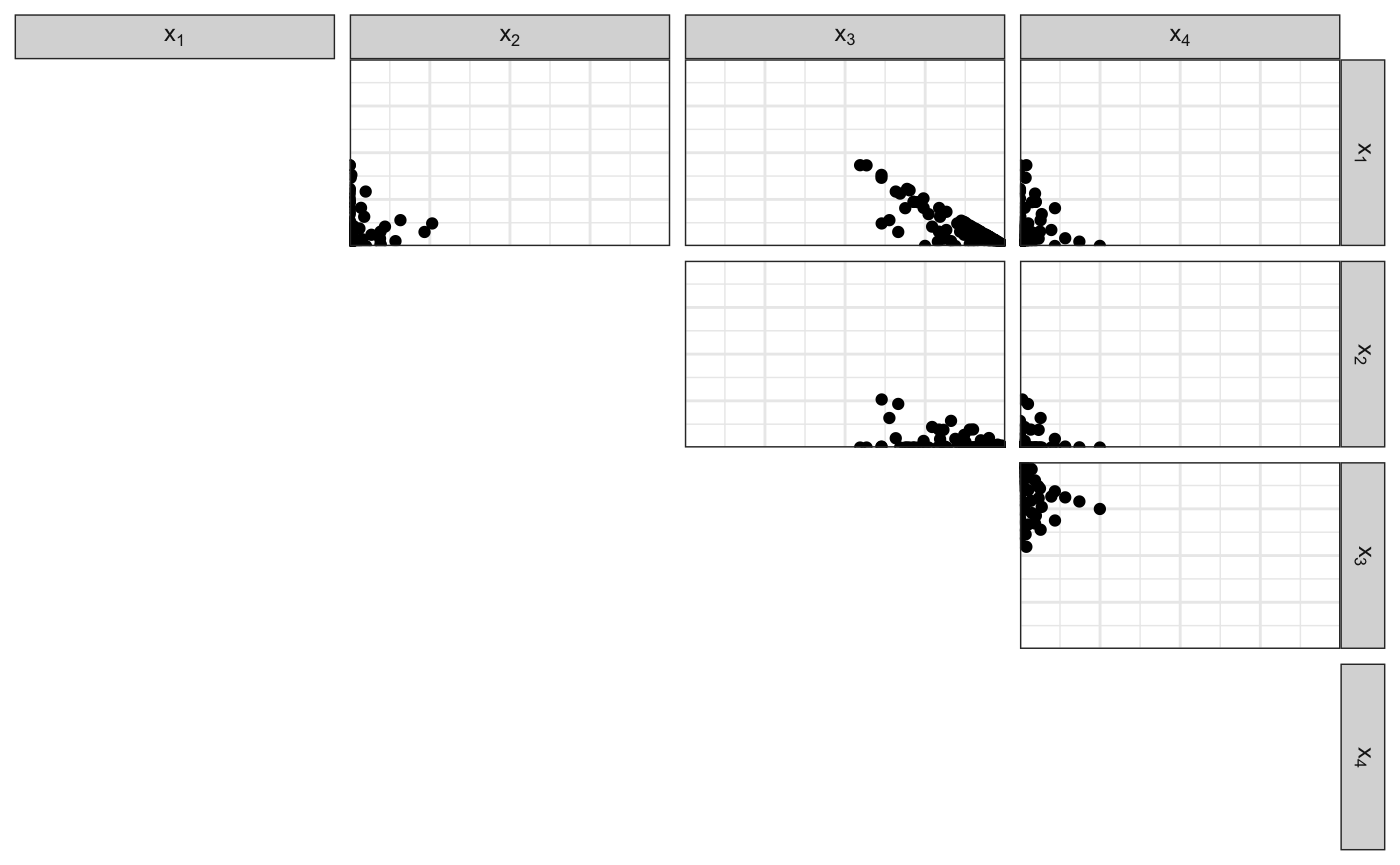
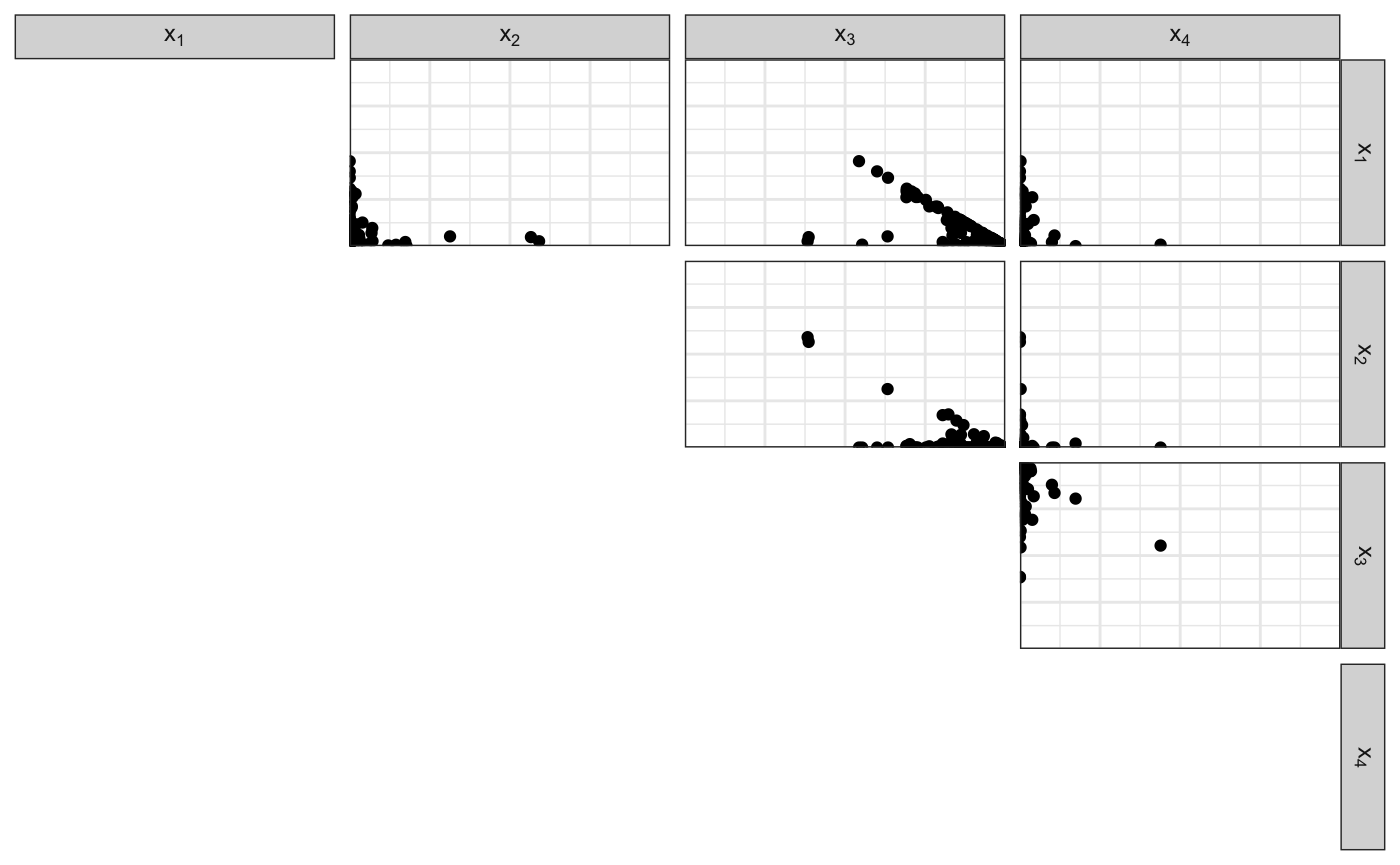
Built site for rsamplestudy: 0.3.2@eef4b8c

diff --git a/articles/dirichlet-distribution.html b/articles/dirichlet-distribution.html
@@ -153,14 +153,14 @@ In other words, <span class="math inline">\(\boldsymbol{X} \in \text{Simplex}{(p
 <div class="sourceCode" id="cb2"><html><body><pre class="r"><span class="no">df_diri</span> <span class="kw">&lt;-</span> <span class="fu"><a href="../reference/fun_rdirichlet.html">fun_rdirichlet</a></span>(<span class="no">n</span>, <span class="no">alpha</span>)
 <span class="fu"><a href="https://rdrr.io/r/utils/head.html">head</a></span>(<span class="no">df_diri</span>)
 <span class="co">#&gt; # A tibble: 6 x 4</span>
-<span class="co">#&gt;    `x[1]`   `x[2]` `x[3]`   `x[4]`</span>
-<span class="co">#&gt;     &lt;dbl&gt;    &lt;dbl&gt;  &lt;dbl&gt;    &lt;dbl&gt;</span>
-<span class="co">#&gt; 1 0.0885  6.61e- 5  0.911 2.45e- 5</span>
-<span class="co">#&gt; 2 0.00151 1.04e-20  0.998 1.51e-19</span>
-<span class="co">#&gt; 3 0.366   3.04e- 3  0.614 1.77e- 2</span>
-<span class="co">#&gt; 4 0.255   6.62e- 5  0.745 2.10e- 6</span>
-<span class="co">#&gt; 5 0.00277 5.45e- 8  0.997 6.28e- 8</span>
-<span class="co">#&gt; 6 0.00466 6.33e- 3  0.989 9.85e- 5</span></pre></body></html></div>
+<span class="co">#&gt;   `x[1]`   `x[2]` `x[3]`      `x[4]`</span>
+<span class="co">#&gt;    &lt;dbl&gt;    &lt;dbl&gt;  &lt;dbl&gt;       &lt;dbl&gt;</span>
+<span class="co">#&gt; 1 0.117  2.04e- 2  0.861 0.00215    </span>
+<span class="co">#&gt; 2 0.0213 7.78e- 7  0.879 0.0998     </span>
+<span class="co">#&gt; 3 0.0365 3.79e-15  0.963 0.0000183  </span>
+<span class="co">#&gt; 4 0.109  3.76e- 4  0.890 0.000165   </span>
+<span class="co">#&gt; 5 0.124  2.22e- 4  0.876 0.000000474</span>
+<span class="co">#&gt; 6 0.0583 3.39e- 9  0.926 0.0158</span></pre></body></html></div>
 <pre><code>#&gt; Loading required namespace: ggplot2
 #&gt; Loading required namespace: GGally
 #&gt; Registered S3 method overwritten by 'GGally':
@@ -178,14 +178,14 @@ In other words, <span class="math inline">\(\boldsymbol{X} \in \text{Simplex}{(p
 <div class="sourceCode" id="cb5"><html><body><pre class="r"><span class="no">df_diri</span> <span class="kw">&lt;-</span> <span class="fu"><a href="../reference/fun_rdirichlet.html">fun_rdirichlet</a></span>(<span class="no">n</span>, <span class="no">alpha</span>)
 <span class="fu"><a href="https://rdrr.io/r/utils/head.html">head</a></span>(<span class="no">df_diri</span>)
 <span class="co">#&gt; # A tibble: 6 x 4</span>
-<span class="co">#&gt;   `x[1]` `x[2]` `x[3]` `x[4]`</span>
-<span class="co">#&gt;    &lt;dbl&gt;  &lt;dbl&gt;  &lt;dbl&gt;  &lt;dbl&gt;</span>
-<span class="co">#&gt; 1 0.527  0.325   0.109 0.0386</span>
-<span class="co">#&gt; 2 0.0940 0.171   0.404 0.331 </span>
-<span class="co">#&gt; 3 0.221  0.0926  0.339 0.348 </span>
-<span class="co">#&gt; 4 0.167  0.0535  0.594 0.186 </span>
-<span class="co">#&gt; 5 0.500  0.217   0.170 0.113 </span>
-<span class="co">#&gt; 6 0.0465 0.328   0.573 0.0524</span></pre></body></html></div>
+<span class="co">#&gt;   `x[1]` `x[2]`  `x[3]`  `x[4]`</span>
+<span class="co">#&gt;    &lt;dbl&gt;  &lt;dbl&gt;   &lt;dbl&gt;   &lt;dbl&gt;</span>
+<span class="co">#&gt; 1 0.232  0.0749 0.00782 0.686  </span>
+<span class="co">#&gt; 2 0.0754 0.490  0.0305  0.404  </span>
+<span class="co">#&gt; 3 0.241  0.206  0.162   0.391  </span>
+<span class="co">#&gt; 4 0.126  0.343  0.164   0.367  </span>
+<span class="co">#&gt; 5 0.233  0.529  0.232   0.00714</span>
+<span class="co">#&gt; 6 0.539  0.133  0.162   0.166</span></pre></body></html></div>
 <div class="sourceCode" id="cb6"><html><body><pre class="r"><span class="fu">scatter_matrix_simplex</span>(<span class="no">df_diri</span>)</pre></body></html></div>
 <p><img src="dirichlet-distribution_files/figure-html/unnamed-chunk-5-1.png" width="700"></p>
 </div>
@@ -202,12 +202,12 @@ In other words, <span class="math inline">\(\boldsymbol{X} \in \text{Simplex}{(p
 <span class="co">#&gt; # A tibble: 6 x 4</span>
 <span class="co">#&gt;   `x[1]` `x[2]` `x[3]` `x[4]`</span>
 <span class="co">#&gt;    &lt;dbl&gt;  &lt;dbl&gt;  &lt;dbl&gt;  &lt;dbl&gt;</span>
-<span class="co">#&gt; 1  0.267  0.263  0.301  0.168</span>
-<span class="co">#&gt; 2  0.287  0.226  0.269  0.218</span>
-<span class="co">#&gt; 3  0.288  0.234  0.256  0.222</span>
-<span class="co">#&gt; 4  0.195  0.226  0.274  0.306</span>
-<span class="co">#&gt; 5  0.326  0.182  0.270  0.222</span>
-<span class="co">#&gt; 6  0.263  0.184  0.326  0.228</span></pre></body></html></div>
+<span class="co">#&gt; 1  0.268  0.250  0.228  0.254</span>
+<span class="co">#&gt; 2  0.223  0.235  0.304  0.237</span>
+<span class="co">#&gt; 3  0.331  0.244  0.152  0.272</span>
+<span class="co">#&gt; 4  0.302  0.277  0.211  0.210</span>
+<span class="co">#&gt; 5  0.267  0.172  0.330  0.230</span>
+<span class="co">#&gt; 6  0.310  0.237  0.203  0.250</span></pre></body></html></div>
 <div class="sourceCode" id="cb9"><html><body><pre class="r"><span class="fu">scatter_matrix_simplex</span>(<span class="no">df_diri</span>)</pre></body></html></div>
 <p><img src="dirichlet-distribution_files/figure-html/unnamed-chunk-8-1.png" width="700"></p>
 </div>
@@ -222,15 +222,26 @@ In other words, <span class="math inline">\(\boldsymbol{X} \in \text{Simplex}{(p
 <div class="sourceCode" id="cb11"><html><body><pre class="r"><span class="no">df_diri</span> <span class="kw">&lt;-</span> <span class="fu"><a href="../reference/fun_rdirichlet.html">fun_rdirichlet</a></span>(<span class="no">n</span>, <span class="no">alpha</span>)
 <span class="fu"><a href="https://rdrr.io/r/utils/head.html">head</a></span>(<span class="no">df_diri</span>)
 <span class="co">#&gt; # A tibble: 6 x 4</span>
-<span class="co">#&gt;      `x[1]`    `x[2]`    `x[3]`    `x[4]`</span>
-<span class="co">#&gt;       &lt;dbl&gt;     &lt;dbl&gt;     &lt;dbl&gt;     &lt;dbl&gt;</span>
-<span class="co">#&gt; 1 2.91e-243 1.00e+  0 2.06e- 32 3.69e-240</span>
-<span class="co">#&gt; 2 2.32e-174 6.96e- 91 1.00e+  0 2.10e-118</span>
-<span class="co">#&gt; 3 9.63e-106 1.00e+  0 4.89e-196 3.57e- 34</span>
-<span class="co">#&gt; 4 2.67e- 18 2.31e-263 1.00e+  0 9.50e-143</span>
-<span class="co">#&gt; 5 8.46e- 14 1.00e+  0 6.36e-247 1.64e-281</span>
-<span class="co">#&gt; 6 0.        1.00e+  0 0.        8.31e-105</span></pre></body></html></div>
-<div class="sourceCode" id="cb12"><html><body><pre class="r"><span class="fu">scatter_matrix_simplex</span>(<span class="no">df_diri</span>)</pre></body></html></div>
+<span class="co">#&gt;      `x[1]`    `x[2]`   `x[3]`    `x[4]`</span>
+<span class="co">#&gt;       &lt;dbl&gt;     &lt;dbl&gt;    &lt;dbl&gt;     &lt;dbl&gt;</span>
+<span class="co">#&gt; 1 9.67e-  1 0.        3.64e-12 3.30e-  2</span>
+<span class="co">#&gt; 2 1.67e- 15 1.00e+  0 1.54e-83 4.35e- 96</span>
+<span class="co">#&gt; 3 0.        6.71e-  6 8.21e-86 1.00e+  0</span>
+<span class="co">#&gt; 4 2.72e-220 5.72e-105 1.00e+ 0 1.82e-124</span>
+<span class="co">#&gt; 5 8.72e-193 1.00e+  0 2.71e-12 3.89e- 81</span>
+<span class="co">#&gt; 6 0.        1.00e+  0 6.52e-76 0.</span></pre></body></html></div>
+<div class="sourceCode" id="cb12"><html><body><pre class="r"><span class="fu">scatter_matrix_simplex</span>(<span class="no">df_diri</span>)
+<span class="co">#&gt; Warning: Removed 1 rows containing missing values (geom_point).</span>
+
+<span class="co">#&gt; Warning: Removed 1 rows containing missing values (geom_point).</span>
+
+<span class="co">#&gt; Warning: Removed 1 rows containing missing values (geom_point).</span>
+
+<span class="co">#&gt; Warning: Removed 1 rows containing missing values (geom_point).</span>
+
+<span class="co">#&gt; Warning: Removed 1 rows containing missing values (geom_point).</span>
+
+<span class="co">#&gt; Warning: Removed 1 rows containing missing values (geom_point).</span></pre></body></html></div>
 <p><img src="dirichlet-distribution_files/figure-html/unnamed-chunk-11-1.png" width="700"></p>
 </div>
 </div>

diff --git a/articles/dirichletdirichlet-study.html b/articles/dirichletdirichlet-study.html
@@ -145,24 +145,24 @@ This vignette describes the Dirichlet-Dirichlet model.</p>
 <p>Notice that the hyperparameter is sampled, too (but it can be fixed).</p>
 <div class="sourceCode" id="cb2"><html><body><pre class="r"><span class="fu"><a href="https://rdrr.io/r/utils/head.html">head</a></span>(<span class="no">list_pop</span>$<span class="no">df_pop</span>)
 <span class="co">#&gt; # A tibble: 6 x 5</span>
-<span class="co">#&gt;   source   `x[1]` `x[2]` `x[3]`   `x[4]`</span>
-<span class="co">#&gt;    &lt;int&gt;    &lt;dbl&gt;  &lt;dbl&gt;  &lt;dbl&gt;    &lt;dbl&gt;</span>
-<span class="co">#&gt; 1      1 0.579         0 0.413  0.00773 </span>
-<span class="co">#&gt; 2      1 0.777         0 0.220  0.00280 </span>
-<span class="co">#&gt; 3      1 0.000662      0 0.992  0.00771 </span>
-<span class="co">#&gt; 4      1 0.784         0 0.216  0.000114</span>
-<span class="co">#&gt; 5      1 0.0207        0 0.951  0.0284  </span>
-<span class="co">#&gt; 6      1 0.356         0 0.0253 0.619</span>
+<span class="co">#&gt;   source `x[1]` `x[2]` `x[3]`   `x[4]`</span>
+<span class="co">#&gt;    &lt;int&gt;  &lt;dbl&gt;  &lt;dbl&gt;  &lt;dbl&gt;    &lt;dbl&gt;</span>
+<span class="co">#&gt; 1      1      0  0.876  0.111 1.27e- 2</span>
+<span class="co">#&gt; 2      1      0  0.451  0.332 2.17e- 1</span>
+<span class="co">#&gt; 3      1      0  0.752  0.248 4.16e-10</span>
+<span class="co">#&gt; 4      1      0  0.861  0.139 1.89e- 6</span>
+<span class="co">#&gt; 5      1      0  0.771  0.228 1.08e- 3</span>
+<span class="co">#&gt; 6      1      0  0.454  0.546 1.74e- 5</span>
 <span class="fu"><a href="https://rdrr.io/r/utils/head.html">head</a></span>(<span class="no">list_pop</span>$<span class="no">df_sources</span>)
 <span class="co">#&gt; # A tibble: 6 x 5</span>
 <span class="co">#&gt;   source `theta[1]` `theta[2]` `theta[3]` `theta[4]`</span>
 <span class="co">#&gt;    &lt;int&gt;      &lt;dbl&gt;      &lt;dbl&gt;      &lt;dbl&gt;      &lt;dbl&gt;</span>
-<span class="co">#&gt; 1      1   0.340      8.66e-41 0.392           0.268</span>
-<span class="co">#&gt; 2      2   0.508      4.76e-32 0.106           0.385</span>
-<span class="co">#&gt; 3      3   0.0187     5.01e- 1 0.293           0.188</span>
-<span class="co">#&gt; 4      4   0.000576   1.41e-13 0.164           0.835</span>
-<span class="co">#&gt; 5      5   0.000625   4.62e-16 0.00000671      0.999</span>
-<span class="co">#&gt; 6      6   0.00141    7.98e- 9 0.0159          0.983</span></pre></body></html></div>
+<span class="co">#&gt; 1      1   4.84e-11    0.462       0.415    0.124   </span>
+<span class="co">#&gt; 2      2   9.38e- 3    0.890       0.101    0.000149</span>
+<span class="co">#&gt; 3      3   3.77e-21    0.807       0.181    0.0115  </span>
+<span class="co">#&gt; 4      4   2.46e- 7    0.845       0.0121   0.143   </span>
+<span class="co">#&gt; 5      5   8.48e- 9    0.00515     0.994    0.000965</span>
+<span class="co">#&gt; 6      6   2.04e- 5    0.0788      0.907    0.0144</span></pre></body></html></div>
 </div>
 <div id="hyperparameters" class="section level2">
 <h2 class="hasAnchor">
@@ -189,33 +189,33 @@ This is generically done using <code>make_dataset_splits</code>:</p>
 <span class="co">#&gt; [5] "df_questioned"  "df_background"</span></pre></body></html></div>
 <div class="sourceCode" id="cb5"><html><body><pre class="r"><span class="fu"><a href="https://rdrr.io/r/utils/head.html">head</a></span>(<span class="no">list_samples</span>$<span class="no">df_reference</span>)
 <span class="co">#&gt; # A tibble: 6 x 5</span>
-<span class="co">#&gt;   source  `x[1]` `x[2]`  `x[3]`    `x[4]`</span>
-<span class="co">#&gt;    &lt;int&gt;   &lt;dbl&gt;  &lt;dbl&gt;   &lt;dbl&gt;     &lt;dbl&gt;</span>
-<span class="co">#&gt; 1     18 0.0109       0 0.989   2.85e- 69</span>
-<span class="co">#&gt; 2     18 0.586        0 0.414   7.06e- 88</span>
-<span class="co">#&gt; 3     18 0.106        0 0.894   6.36e- 50</span>
-<span class="co">#&gt; 4     18 0.00494      0 0.995   7.01e- 62</span>
-<span class="co">#&gt; 5     18 0.993        0 0.00741 3.17e- 41</span>
-<span class="co">#&gt; 6     18 0.846        0 0.154   1.70e-164</span>
+<span class="co">#&gt;   source    `x[1]` `x[2]`   `x[3]` `x[4]`</span>
+<span class="co">#&gt;    &lt;int&gt;     &lt;dbl&gt;  &lt;dbl&gt;    &lt;dbl&gt;  &lt;dbl&gt;</span>
+<span class="co">#&gt; 1      8 0.         0.263 7.37e- 1      0</span>
+<span class="co">#&gt; 2      8 0.         1.00  3.32e- 6      0</span>
+<span class="co">#&gt; 3      8 0.         0.996 4.12e- 3      0</span>
+<span class="co">#&gt; 4      8 0.         0.999 6.57e- 4      0</span>
+<span class="co">#&gt; 5      8 0.         1.00  9.57e-10      0</span>
+<span class="co">#&gt; 6      8 9.22e-181  1.00  4.85e- 5      0</span>
 <span class="fu"><a href="https://rdrr.io/r/utils/head.html">head</a></span>(<span class="no">list_samples</span>$<span class="no">df_questioned</span>)
 <span class="co">#&gt; # A tibble: 5 x 5</span>
-<span class="co">#&gt;   source       `x[1]`   `x[2]`    `x[3]`  `x[4]`</span>
-<span class="co">#&gt;    &lt;int&gt;        &lt;dbl&gt;    &lt;dbl&gt;     &lt;dbl&gt;   &lt;dbl&gt;</span>
-<span class="co">#&gt; 1      2 0.0161       0.       9.80e-  1 0.00353</span>
-<span class="co">#&gt; 2      3 0.0000000358 8.68e- 1 7.61e-  2 0.0555 </span>
-<span class="co">#&gt; 3     12 0            2.77e- 6 1.29e- 35 1.00   </span>
-<span class="co">#&gt; 4     14 0            5.61e-82 2.96e-  8 1.00   </span>
-<span class="co">#&gt; 5     20 0.715        0.       4.46e-185 0.285</span>
+<span class="co">#&gt;   source   `x[1]`     `x[2]`      `x[3]`   `x[4]`</span>
+<span class="co">#&gt;    &lt;int&gt;    &lt;dbl&gt;      &lt;dbl&gt;       &lt;dbl&gt;    &lt;dbl&gt;</span>
+<span class="co">#&gt; 1      1 0.       0.454      0.546       1.74e- 5</span>
+<span class="co">#&gt; 2      4 0.       1.00       0.000000551 7.47e- 5</span>
+<span class="co">#&gt; 3      6 0.       0.00000201 1.00        2.35e-54</span>
+<span class="co">#&gt; 4      9 1.39e-23 0.223      0.777       0.      </span>
+<span class="co">#&gt; 5     15 0.       1.00       0.000311    1.02e-51</span>
 <span class="fu"><a href="https://rdrr.io/r/utils/head.html">head</a></span>(<span class="no">list_samples</span>$<span class="no">df_background</span>)
 <span class="co">#&gt; # A tibble: 6 x 5</span>
-<span class="co">#&gt;   source   `x[1]` `x[2]` `x[3]`   `x[4]`</span>
-<span class="co">#&gt;    &lt;int&gt;    &lt;dbl&gt;  &lt;dbl&gt;  &lt;dbl&gt;    &lt;dbl&gt;</span>
-<span class="co">#&gt; 1      1 0.579         0 0.413  0.00773 </span>
-<span class="co">#&gt; 2      1 0.777         0 0.220  0.00280 </span>
-<span class="co">#&gt; 3      1 0.000662      0 0.992  0.00771 </span>
-<span class="co">#&gt; 4      1 0.784         0 0.216  0.000114</span>
-<span class="co">#&gt; 5      1 0.0207        0 0.951  0.0284  </span>
-<span class="co">#&gt; 6      1 0.356         0 0.0253 0.619</span></pre></body></html></div>
+<span class="co">#&gt;   source `x[1]` `x[2]`  `x[3]`   `x[4]`</span>
+<span class="co">#&gt;    &lt;int&gt;  &lt;dbl&gt;  &lt;dbl&gt;   &lt;dbl&gt;    &lt;dbl&gt;</span>
+<span class="co">#&gt; 1      1      0  0.876 0.111   1.27e- 2</span>
+<span class="co">#&gt; 2      1      0  0.451 0.332   2.17e- 1</span>
+<span class="co">#&gt; 3      1      0  0.752 0.248   4.16e-10</span>
+<span class="co">#&gt; 4      1      0  0.861 0.139   1.89e- 6</span>
+<span class="co">#&gt; 5      1      0  0.771 0.228   1.08e- 3</span>
+<span class="co">#&gt; 6      1      0  0.999 0.00108 2.49e- 6</span></pre></body></html></div>
 <div id="source-parameters" class="section level3">
 <h3 class="hasAnchor">
 <a href="#source-parameters" class="anchor"></a>Source parameters</h3>
